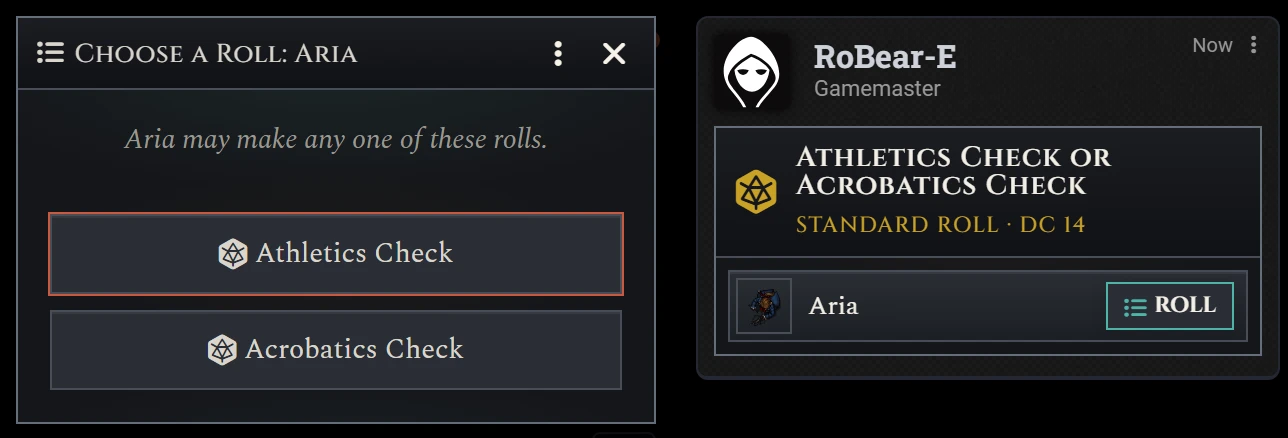
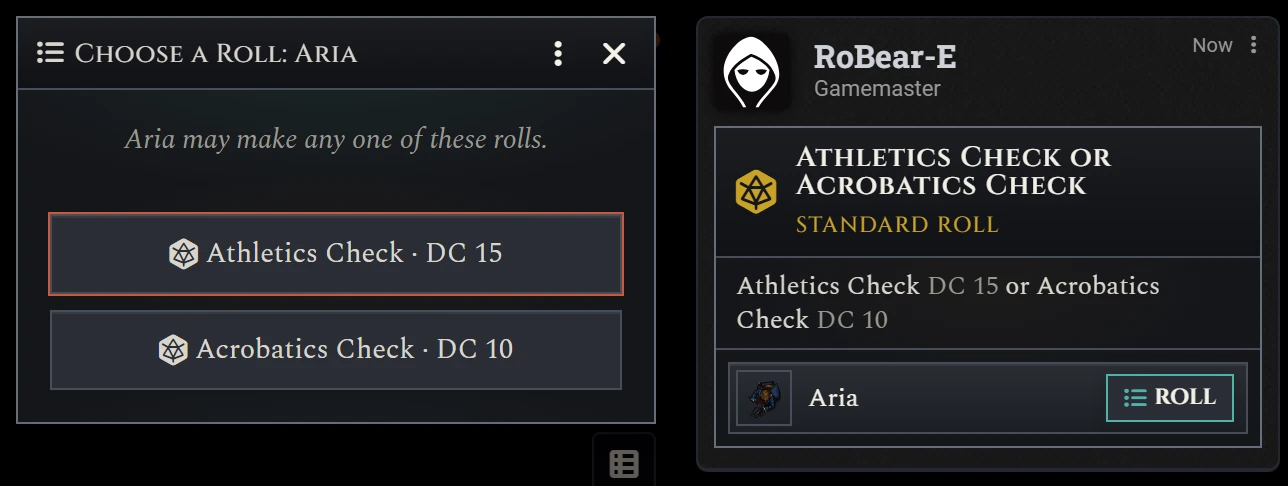
Give each choice of roll its own DC
In a Standard Roll or Skill Challenge, a roll offered as a choice now has a
DC of its own, so a request can ask for a DC 10 Dexterity save or a DC 15
Strength save. The request window gives each choice a DC, starting as the
roll's. The card lists each choice with its DC, which the GM can change one
by one, and the choice buttons show each DC as far as the player may see
it. Each roll is scored, and Indomitable offered, against the DC of the
roll that was chosen.

A Team Challenge's choices still share one DC, as its rolls are averaged
against it, and createRequest refuses a DC on one. An alternative that
gives no dc shares the roll's, so requests already in chat and existing
macros score as before.

diff --git a/styles/roll-requests.css b/styles/roll-requests.css
@@ -374,6 +374,12 @@
   color: var(--cc-text);
 }
 
+/* A standard roll's choices, each with its own DC, are one line, so they need no number or bullet. */
+:is(.chat-message, .robear-request-popup) ul.robear-request-steps {
+  padding-left: 10px;
+  list-style: none;
+}
+
 :is(.chat-message, .robear-request-popup) .robear-request-steps span {
   color: var(--cc-muted);
 }

diff --git a/DEVELOPER.md b/DEVELOPER.md
@@ -92,7 +92,7 @@ interface RequestPart {
   type: "skill" | "check" | "save" | "tool" | "d20" | "d6" | "d8" | "d10" | "d12" | "d100";
   key?: string | null;       // the skill, ability or tool ID; omitted or null for a plain die
   dc: number | null;         // null for no DC
-  alternatives?: { type: string, key?: string | null }[]; // other rolls the actor may make instead
+  alternatives?: { type: string, key?: string | null, dc?: number | null }[]; // other rolls the actor may make instead
 }
 ```
 
@@ -122,8 +122,13 @@ The window offers each mode only some dice (Team vs Team offers only `d20`, for 
 any of them in any mode except `divine`.
 
 **Alternatives.** In `standard`, `team` and `challenge`, a part may list up to three `alternatives`, so an actor
-chooses between up to four rolls. They share the part's `dc`. The roll message records which was made in
-`requestRoll.choice`.
+chooses between up to four rolls. The roll message records which was made in `requestRoll.choice`.
+
+In `standard` and `challenge`, an alternative may give a `dc` of its own: a number, or `null` for none. An
+alternative with no `dc` key shares the part's `dc`, as every alternative used to, so older requests and macros
+score as they did. In `team`, whose rolls are averaged against one DC, an alternative can't give a `dc`. Use
+`getChoiceDC(part, choice)` from `scripts/roll-requests.mjs` if you need the DC a roll was made against; it is internal,
+like the module's other exports.
 
 **Defaults.** `withDefaults` fills in a missing or `null` value for `rollMode` (`"public"`), `showDC` (the
 `showDCDefault` setting), `successes` (`2`, for `challenge`) and `range` (`16`, for `divine`). Nothing else is filled
@@ -146,9 +151,10 @@ language), and posts nothing:
 | Someone on a side isn't in `actors` | Everyone on a side of a contest must also be in the request's actors. |
 | Fewer `parts` than the mode uses | A roll request is missing a roll. |
 | `alternatives` in a mode without choices, three or more of them, or not objects | Only a Standard Roll, Team Challenge or Skill Challenge can offer a choice of rolls, and at most 4 to choose from, given as a list of alternatives. |
+| An alternative with a `dc` in a `team` request | A Team Challenge's rolls are averaged against one DC, so its alternatives can't have DCs of their own. |
 | An unknown `type` | Unknown kind of roll: {type}. |
 | A `key` that dnd5e doesn't know | Unknown {type} for a roll: {key}. Use one of: {keys}. |
-| A `dc` that's neither a number nor `null` | A DC must be a number, or null for none: {dc}. |
+| A `dc`, on a part or an alternative, that's neither a number nor `null` | A DC must be a number, or null for none: {dc}. |
 | `successes` not an integer from 1 to 3 | A skill challenge needs from 1 to 3 successes, not {successes}. |
 | `range` not an integer from 1 to 50 | Divine Intervention needs from 1 to 50 numbers to pick, not {range}. |
 | A `divine` part that isn't `d100` | Divine Intervention's roll is a d100, not {type}. |
@@ -176,7 +182,7 @@ await createRequest({
 });
 ```
 
-**Standard Roll with a choice, Persuasion or Deception, as a private GM roll:**
+**Standard Roll with a choice, Persuasion or Deception, sharing DC 14, as a private GM roll:**
 
 ```js
 await createRequest({
@@ -184,6 +190,16 @@ await createRequest({
   parts: [{ type: "skill", key: "per", dc: 14, alternatives: [{ type: "skill", key: "dec" }] }],
   actors: party,
   rollMode: "gm"
+});
+```
+
+**Standard Roll with a choice, each at its own DC: a DC 10 Dexterity save or a DC 15 Strength save:**
+
+```js
+await createRequest({
+  mode: "standard",
+  parts: [{ type: "save", key: "dex", dc: 10, alternatives: [{ type: "save", key: "str", dc: 15 }] }],
+  actors: party
 });
 ```
 
@@ -264,7 +280,7 @@ them out from its roll messages each time it draws.
 
 | Flag | Type | Written by | Meaning |
 |---|---|---|---|
-| `request` | `RollRequest` | `createRequest`, or the window | The request, with defaults filled in. Only honoured on a GM's message. Changing the DC from the card rewrites `request.parts[n].dc`. |
+| `request` | `RollRequest` | `createRequest`, or the window | The request, with defaults filled in. Only honoured on a GM's message. Changing the DC from the card rewrites `request.parts[n].dc`, or an alternative's `dc`. |
 | `revealed` | `boolean` | The GM's **Show to players** button | Whether players see the results and summary. Unset means hidden. |
 
 ### On a roll made for a request

diff --git a/GM.md b/GM.md
@@ -79,10 +79,17 @@ buttons.
 
 **Offering a choice of rolls.** In a Standard Roll, Team Challenge or Skill Challenge, click **+** beside a roll to
 let each actor make a different roll instead, such as Athletics or Acrobatics, or Persuasion or Deception. You can
-offer up to four rolls, and they share the DC. When a player clicks **Roll**, they're asked which one to make. Hover
-over a result on the card to see which they chose.
+offer up to four rolls. When a player clicks **Roll**, they're asked which one to make. Hover over a result on the card
+to see which they chose.
 
-<img src="docs/images/gm-request-choices.webp" alt="The Rolls section with Athletics, DC 15, or Acrobatics" width="520">
+In a Standard Roll or Skill Challenge, each choice has a DC of its own, so an easier roll can have a harder DC: for
+example, Athletics at DC 15 or Acrobatics at DC 10. A new choice starts with the roll's DC. In a Team Challenge,
+the choices share one DC, because the rolls are averaged against it.
+
+<img src="docs/images/gm-request-choices.webp" alt="The Rolls section with Athletics at DC 15, or Acrobatics at DC 10" width="520">
+
+The card lists each choice with its DC, and you can click any of them to change it. Players see each DC on the card
+and on the buttons they choose from, or "DC ?" if you're keeping the DC hidden.
 
 ### Kinds of request
 
@@ -161,7 +168,8 @@ rolls a second d100 and keeps whichever lands in their numbers, and **Luck** rer
 **Rolling for NPCs.** Every row has a **Roll** button for you, so you can roll for anyone, including NPCs.
 
 **Changing the DC.** On a Standard Roll, Team Challenge or Skill Challenge card, click the DC to change it, or clear
-it for no DC (each Skill Challenge roll must keep one). Rolls already made are scored again against the new DC.
+it for no DC (each Skill Challenge roll must keep one). Where each choice has its own DC, click the one to change.
+Rolls already made are scored again against the new DC.
 
 <img src="docs/images/gm-change-dc.webp" alt="The Change DC window, with the DC set to 12" width="340">
 

diff --git a/CHANGELOG.md b/CHANGELOG.md
@@ -6,6 +6,12 @@ All notable changes to RoBear-E.
 
 ### New
 
+- **Each choice of roll can have its own DC.** In a Standard Roll or Skill Challenge, a roll offered as a choice now
+  has a DC of its own, such as a DC 10 Dexterity save or a DC 15 Strength save. A new choice starts with the roll's
+  DC. The card lists each choice with its DC, the GM can change each one, and players see them on the buttons they
+  choose from (or "DC ?" while the DC is hidden). A Team Challenge's choices still share one DC, since its rolls are
+  averaged against it. A macro gives an alternative its own `dc`; one that gives none shares the roll's, as before.
+
 - **The GM can let someone roll again from the request card.** Click a result to open its dice, and the GM gets a
   **Roll again** button, which deletes the roll after asking, so the actor's Roll button comes back. With rolls
   attached to the request card, as they are by default, the roll's own message is hidden, so before this the GM had

diff --git a/README.md b/README.md
@@ -164,9 +164,10 @@ Things you may see on a request card:
 ### Choosing which roll to make
 
 The GM may let you choose between several rolls, such as Athletics or Acrobatics. The card then lists them all, and
-clicking **Roll** asks which one you want to make.
+clicking **Roll** asks which one you want to make. Each choice can have its own DC, so the easier roll may be the one
+with the harder DC. You see each DC unless the GM is keeping it hidden.
 
-<img src="docs/images/choice-dialog.webp" alt="A request for an Athletics Check or Acrobatics Check, and the window asking Aria which to make" width="600">
+<img src="docs/images/choice-dialog.webp" alt="A request for an Athletics Check at DC 15 or Acrobatics Check at DC 10, and the window asking Aria which to make" width="600">
 
 ### Divine Intervention
 
